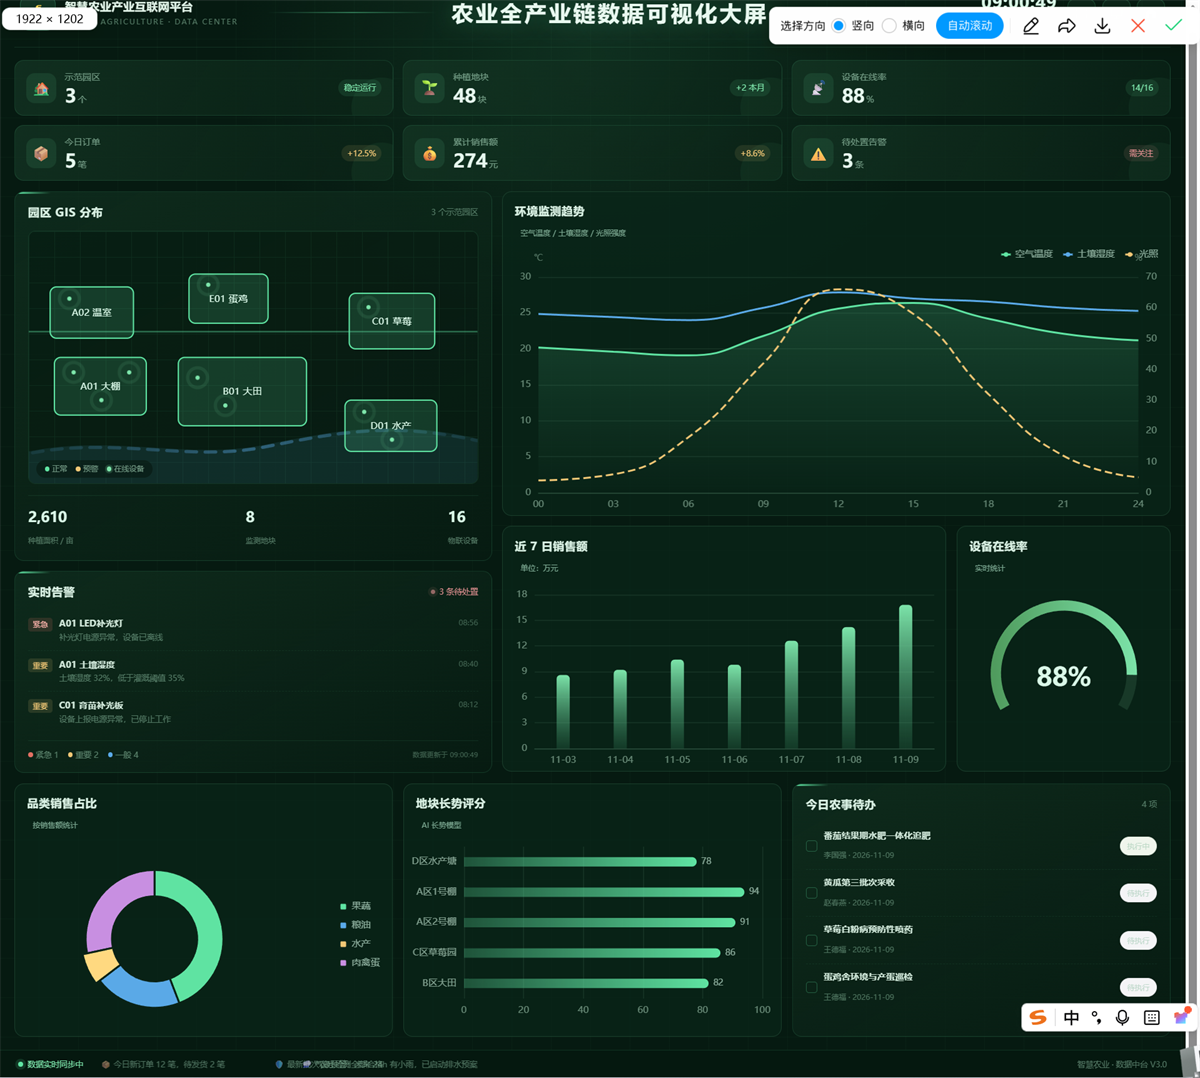
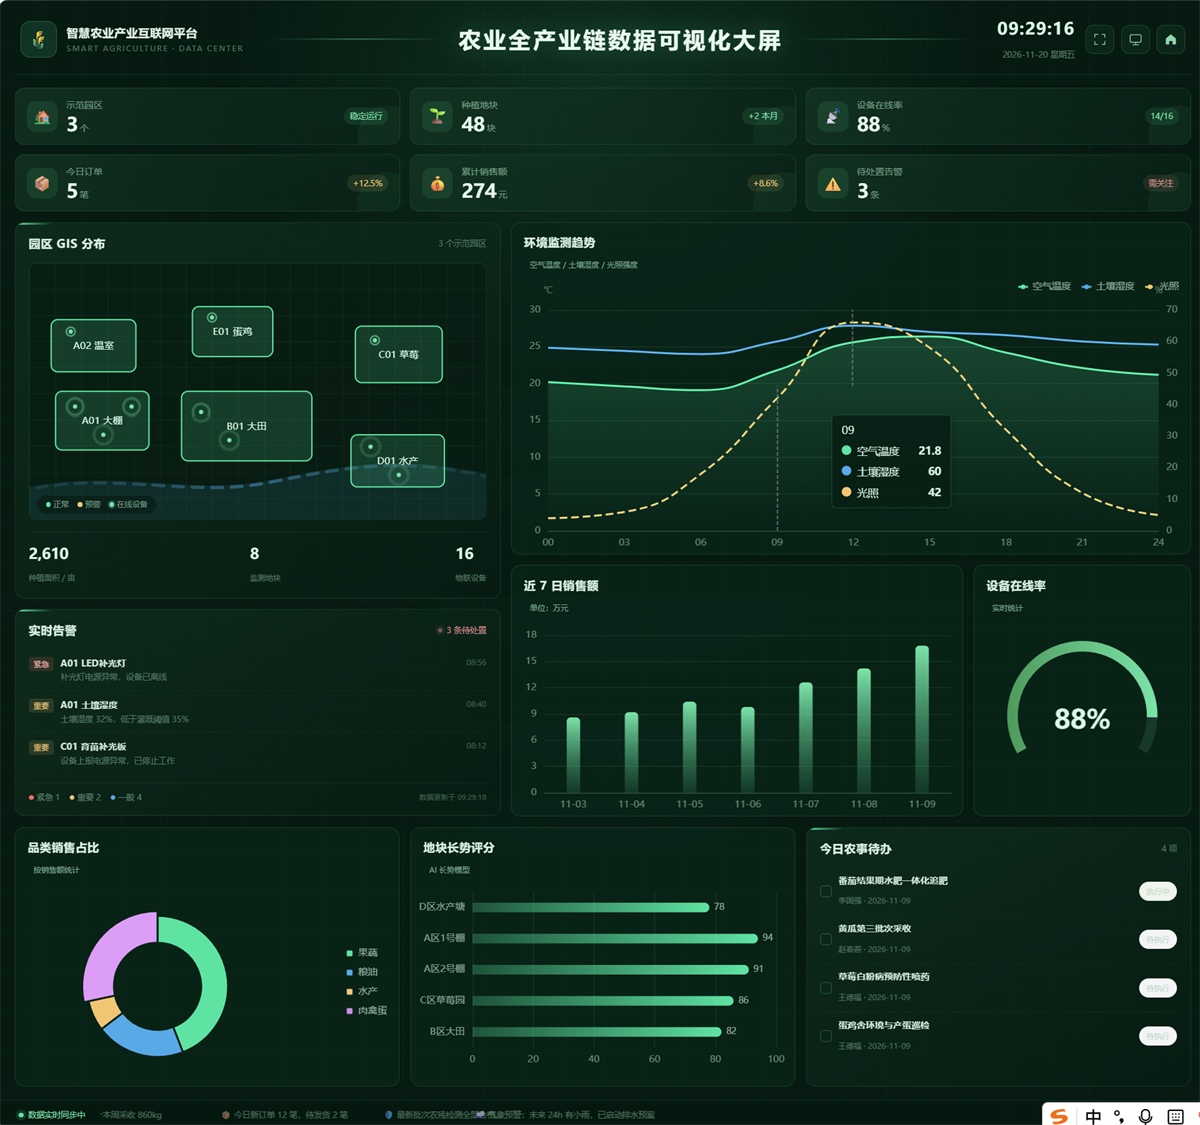
docs: 更新大屏截图并去掉重复的大屏概览图

diff --git a/README.md b/README.md
@@ -87,8 +87,6 @@
 
 ![可视化大屏](docs/screenshots/07-screen.png)
 
-![可视化大屏概览](docs/screenshots/08-screen-overview.jpg)
-
 **移动端预览（农户工作台）**
 
 ![移动端预览](docs/screenshots/09-mobile.png)
